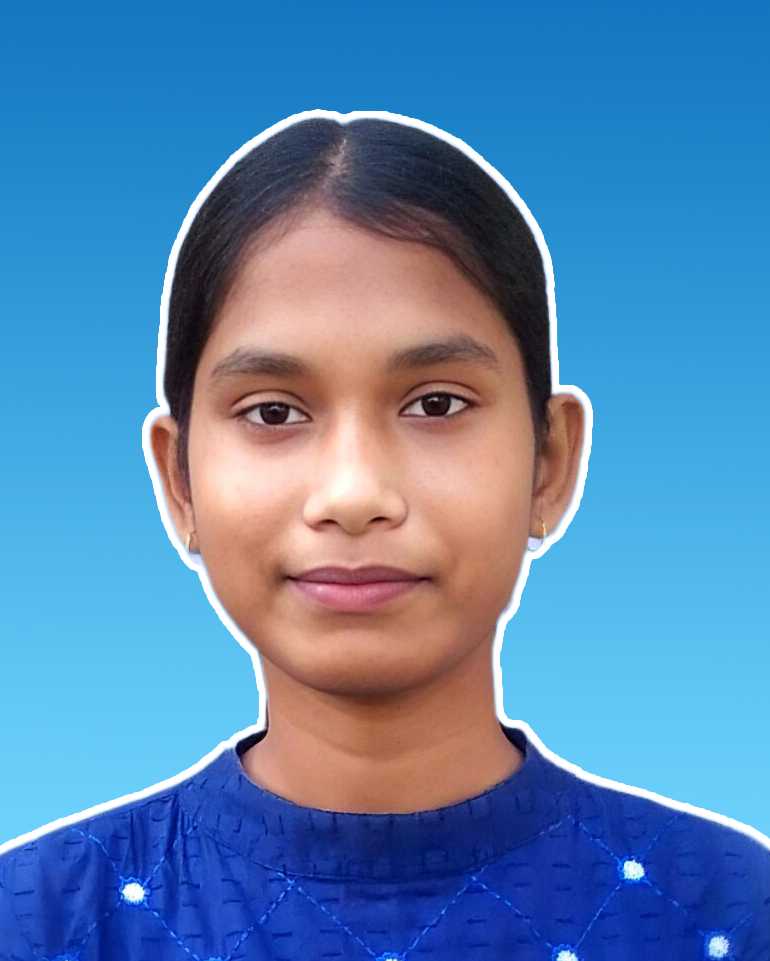
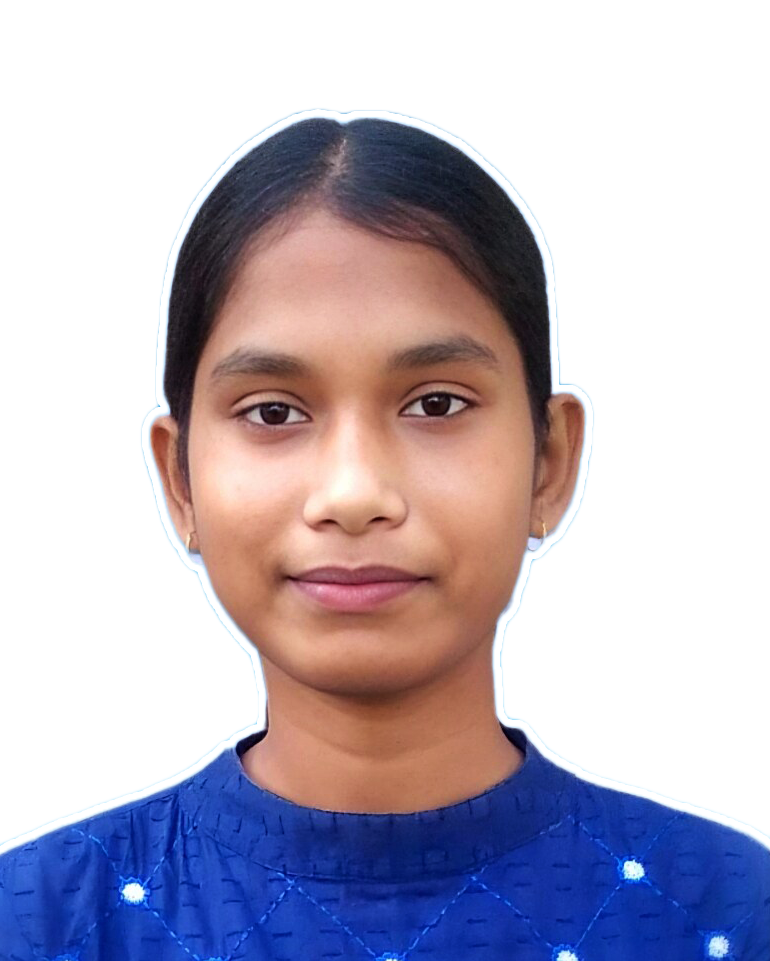
Add toggle theme concept and add the function in whole website and also in about section, there not set the perfact color to it for now

diff --git a/jyotismita/src/components/Pages/Nav/Nav.css b/jyotismita/src/components/Pages/Nav/Nav.css
@@ -1,16 +1,14 @@
 .navbar{
-  background-color: rgb(2, 126, 102);
+  background-color: rgb(53, 77, 216);
   display: flex;
   justify-content: space-evenly;
   justify-items: center;
   gap: 40px;
   padding: 20px;
-  margin-left: 30px;
   margin-top: 10px;
   z-index: 1000;
   cursor: pointer;
   border: 2px solid rgb(4, 67, 69);
-  border-radius: 20px 0px 0px 20px;
   position: sticky;
   top: 10px;
 }
@@ -19,7 +17,7 @@
   color: white;
   font-weight: semi-bold;
   font-size: larger;
-  background-color: rgb(2, 126, 102);
+  background-color: rgb(53, 77, 216);
   text-decoration: none;
   font-family: 'Poppins', sans-serif;
   text-shadow: 5px 5px 5px rgb(1, 4, 4);
@@ -34,4 +32,12 @@
   color: black;
   text-shadow: none;
   box-shadow: 3px 3px 5px black;
+}
+
+.theme-btn {
+  padding: 10px 18px;
+  border: none;
+  border-radius: 8px;
+  cursor: pointer;
+  font-size: 15px;
 }

diff --git a/jyotismita/src/context/ThemeContext.jsx b/jyotismita/src/context/ThemeContext.jsx
@@ -1,0 +1,33 @@
+import { createContext, useContext, useEffect, useState } from "react";
+
+const ThemeContext = createContext();
+
+export const ThemeProvider = ({children}) => {
+  const [theme, setTheme] = useState("light");
+
+  //Load saved theme
+  useEffect(() => {
+    const savedTheme = localStorage.getItem("theme");
+
+    if(savedTheme) {
+      setTheme(savedTheme);
+      document.body.className = savedTheme;
+    }
+  }, []);
+
+  //Toggle theme
+  const toggleTheme = () => {
+    const newTheme = theme === "light" ? "dark" : "light";
+
+    setTheme(newTheme);
+    document.body.className = newTheme;
+
+    localStorage.setItem("theme", newTheme);
+  };
+
+  return (
+    <ThemeContext.Provider value = {{theme, toggleTheme}}>{children}</ThemeContext.Provider>
+  );
+};
+
+export const useTheme = () => useContext(ThemeContext);

diff --git a/jyotismita/src/components/Pages/Nav/Nav.jsx b/jyotismita/src/components/Pages/Nav/Nav.jsx
@@ -1,6 +1,10 @@
 import { NavLink } from 'react-router-dom';
 import './Nav.css'
+import { useTheme } from "../../../context/ThemeContext"
 const Nav = () => {
+
+  const { theme, toggleTheme } = useTheme();
+
   const activeItem = ({isActive}) => {
     return isActive ? "nav-link active-link" : "nav-link"
   }
@@ -12,8 +16,10 @@ const Nav = () => {
         <NavLink to="/projects" className={activeItem}>Projects</NavLink>
         <NavLink to="/skills" className={activeItem}>Skills</NavLink>
         <NavLink to="/contact" className={activeItem}>Contact</NavLink>
+
+        <button onClick = {toggleTheme} className='theme-btn'>{theme === "light" ? "dark" : "light"}</button>
       </nav>
-  )
-}
+  );
+};
 
 export default Nav;

diff --git a/jyotismita/src/main.jsx b/jyotismita/src/main.jsx
@@ -3,11 +3,15 @@ import { createRoot } from "react-dom/client";
 import "./index.css";
 import App from "./App.jsx";
 import { BrowserRouter } from "react-router-dom";
+import { ThemeProvider } from "./context/ThemeContext.jsx";
 
 createRoot(document.getElementById("root")).render(
-  <BrowserRouter>
-    <StrictMode>
-      <App />
-    </StrictMode>
-  </BrowserRouter>,
+  <ThemeProvider>
+    <BrowserRouter>
+      <StrictMode>
+        <App />
+      </StrictMode>
+    </BrowserRouter>,
+  </ThemeProvider>
+  
 );

diff --git a/jyotismita/src/components/Pages/About/About.jsx b/jyotismita/src/components/Pages/About/About.jsx
@@ -1,8 +1,14 @@
 import "./About.css";
+import { useTheme } from "../../../context/ThemeContext";
 const About = () => {
+
+  const { theme } = useTheme();
+
   return (
     <>
-      <div className="about">
+      <div className={
+        theme === "dark" ? "about dark-about" : "about light-about"
+      }>
         <p>
           Passionate Full-Stack (MERN) , currently pursuing B.Tech
           in Computer Science. I enjoy building responsive and modern web

diff --git a/jyotismita/index.html b/jyotismita/index.html
@@ -4,7 +4,7 @@
     <meta charset="UTF-8" />
     <link rel="icon" href="./src/assets/profile.png" type="image/png" />
     <meta name="viewport" content="width=device-width, initial-scale=1.0" />
-    <title>jyotismita</title>
+    <title>Portfolio | Jyotismita Das</title>
   </head>
   <body>
     <div id="root"></div>

diff --git a/jyotismita/src/components/Pages/About/About.css b/jyotismita/src/components/Pages/About/About.css
@@ -10,6 +10,14 @@
   padding: 40px;
   border: 3px solid black;
   border-radius: 20px;
-  color: White;
-  background-color: rgb(2, 126, 102);
+}
+
+.light-about p{
+  color: black;
+  background-color: rgb(235, 240, 245);
+}
+
+.dark-about p{
+  color: rgb(235, 240, 245);
+  background-color: black;
 }

diff --git a/jyotismita/src/index.css b/jyotismita/src/index.css
@@ -1,6 +1,17 @@
 *{
   margin: 0;
   padding: 0;
-  background-color: rgb(192, 255, 243);
   font-family: 'Inter', sans-serif;
+}
+
+/* Light theme */
+body.light{
+  background-color: white;
+  color: black;
+}
+
+/* Dark theme */
+body.dark {
+  background-color: #121212;
+  color: #ffffff;
 }

diff --git a/jyotismita/src/components/Pages/Banner/Banner.css b/jyotismita/src/components/Pages/Banner/Banner.css
@@ -28,4 +28,5 @@
   border: 3px solid rgb(0, 0, 0);
   border-radius: 30px;
   box-shadow: 5px 5px 30px black;
+  background-color: white;
 }
